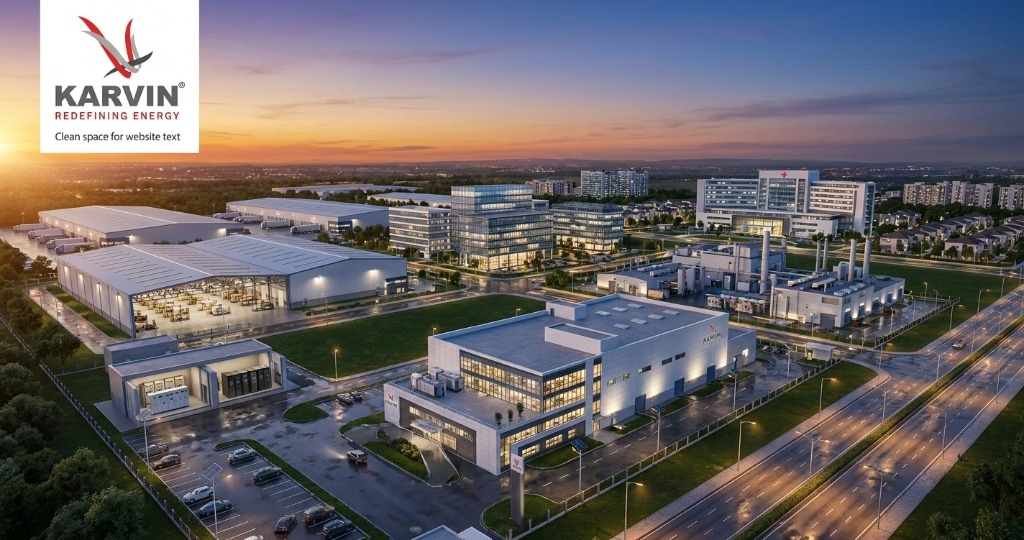
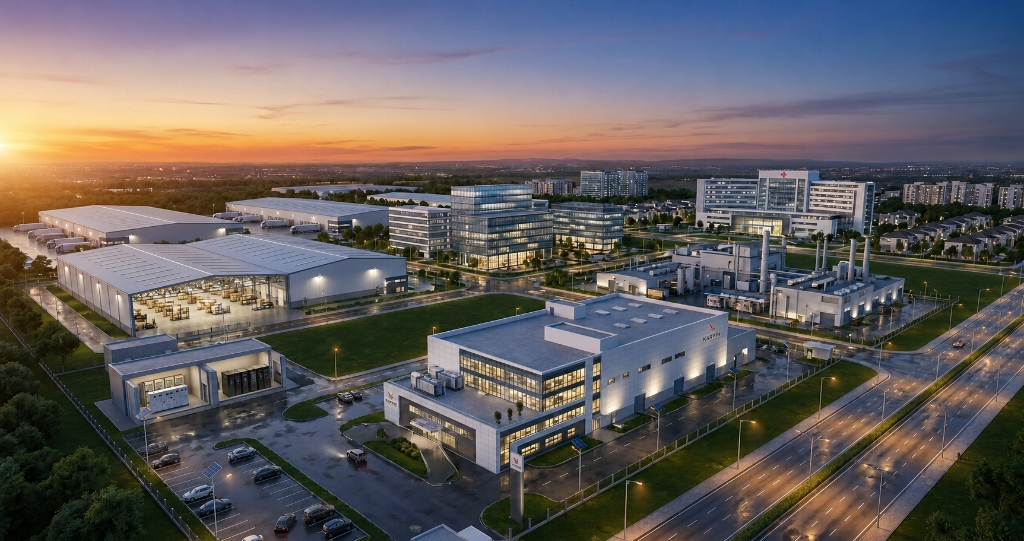
feat: implement landing page with responsive image carousel and company statistics section

diff --git a/src/app/page.tsx b/src/app/page.tsx
@@ -28,6 +28,11 @@ export default function Home() {
     '/images/ss3.jpg'
   ];
 
+  const heroImagesMobile = [
+    '/images/ss1-mobile.jpg',
+    '/images/ss3-mobile.jpg'
+  ];
+
   const [heroImageIdx, setHeroImageIdx] = useState(0);
 
   useEffect(() => {
@@ -63,7 +68,14 @@ export default function Home() {
                 src={heroImages[heroImageIdx]}
                 alt="Premium Lighting Infrastructure"
                 fill
-                className="object-cover"
+                className="hidden md:block object-cover"
+                priority
+              />
+              <Image
+                src={heroImagesMobile[heroImageIdx]}
+                alt="Premium Lighting Infrastructure"
+                fill
+                className="block md:hidden object-cover"
                 priority
               />
             </motion.div>
